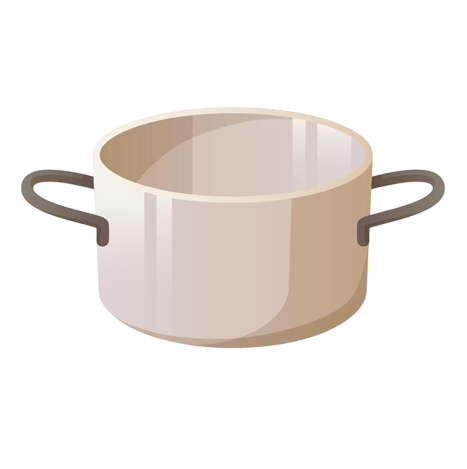
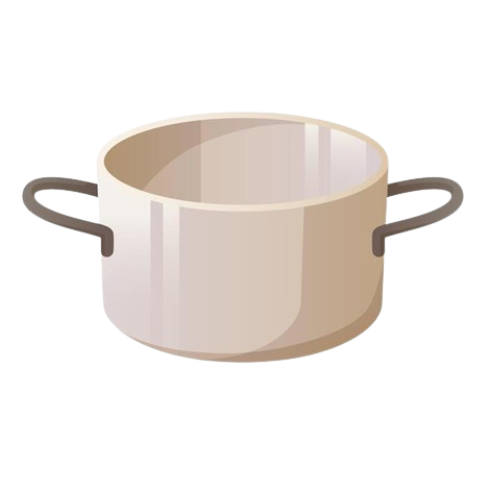
screen

diff --git a/Screen1.py b/Screen1.py
@@ -1,6 +1,5 @@
 import pygame
 import consts
-from consts import PAN_IMG
 
 screen=pygame.display.set_mode((consts.WINDOW_WIDTH,consts.WINDOW_HEIGHT))
 screen.fill(consts.BACKGROUND_COLOR)
@@ -33,3 +32,26 @@ def draw_stove():
     STOVE_IMG = pygame.transform.scale(consts.STOVE_IMG, consts.STOVE_SIZE1)
     screen.blit(STOVE_IMG, (consts.STOVE_START_LOCATION1))
 
+def draw_frame():
+    pygame.init()
+    FRAME_IMG=pygame.transform.scale(consts.FRAME_IMG, consts.FRAME_SIZE)
+    screen.blit(FRAME_IMG)
+
+
+def draw_message_a():
+    #screen.fill(consts.BACKGROUND_COLOR)
+    font = pygame.font.SysFont(consts.FONT_NAME, consts.FONT_SIZE)
+    a_img = font.render(consts.MESSAGE_A, True, consts.COLOR)
+    screen.blit(a_img, consts.FONT_LOCATION)
+
+def draw_message_b():
+    screen.fill(consts.BACKGROUND_COLOR)
+    font = pygame.font.SysFont(consts.FONT_NAME, consts.FONT_SIZE)
+    b_img = font.render(consts.MESSAGE_B, True, consts.COLOR)
+    screen.blit(b_img, consts.FONT_LOCATION)
+
+def draw_message_c():
+    screen.fill(consts.BACKGROUND_COLOR)
+    font = pygame.font.SysFont(consts.FONT_NAME, consts.FONT_SIZE)
+    c_img = font.render(consts.MESSAGE_C, True, consts.COLOR)
+    screen.blit(c_img, consts.FONT_LOCATION)

diff --git a/consts.py b/consts.py
@@ -1,14 +1,43 @@
-BACKGROUND_COLOR=(255,230,247)
+BACKGROUND_COLOR=(150,210,230)
 WINDOW_WIDTH=1000
 WINDOW_HEIGHT=500
 import pygame
 
-PASTA_IMG=pygame.image.load("pasta.jpg")
-POT=pygame.image.load('pot.png')
-LID=pygame.image.load('lid.png')
+'''KITCHEN_IMG=pygame.image.load('kitchen.png')
+KITCHEN_SIZE=(WINDOW_WIDTH,WINDOW_HEIGHT)'''
+
+FRAME_IMG=pygame.image.load('frame.png')
+FRAME_SIZE=(1000,500)
+
+PASTA_IMG=pygame.image.load("pasta.png")
+PASTA_RECT=PASTA_IMG.get_rect()
+PASTA_SIZE=(150,60)
+PASTA_START_LOCATION=850, 100
+
+POT_IMG=pygame.image.load('pot1.png')
+POT_RECT=POT_IMG.get_rect()
+POT_SIZE=300,250
+POT_START_LOCATION=500, 180
+
+LID_IMG=pygame.image.load('lid.png')
+LID_RECT=LID_IMG.get_rect()
+#LID_SIZE=
+#LID_LOCATION=
+
+PAN_IMG=pygame.image.load('pan.png')
+PAN_RECT=PAN_IMG.get_rect()
+PAN_SIZE=300,250
+PAN_START_LOCATION=120, 162
+
+STOVE_IMG=pygame.image.load('stove.png')
+STOVE_RECT=STOVE_IMG.get_rect()
+STOVE_SIZE=250,100
+STOVE_START_LOCATION=150, 350
+STOVE_SIZE1=250,100
+STOVE_START_LOCATION1=550, 350
 
 
-FONT_NAME = "Handjet"
+FONT_NAME = "david"
 MESSAGE_A = "a"
 MESSAGE_B = "b"
 MESSAGE_C = "c"

diff --git a/main.py b/main.py
@@ -1,14 +1,22 @@
 import pygame,sys
-import screen
+import Screen1
 
 pygame.init()
 clock = pygame.time.Clock()
-
 while True:
+    pygame.display.flip()
     for event in pygame.event.get():
         if event.type == pygame.QUIT:
             pygame.quit()
             sys.exit()
 
-    screen.display()
+    pygame.display.update()
+    #screen.draw_pasta()
+    Screen1.draw_pot()
+    Screen1.draw_pan()
+    Screen1.draw_stove()
+    #Screen1.draw_frame()
+    '''Screen1.draw_message_a()
+    Screen1.draw_message_b()
+    Screen1.draw_message_c()'''
     clock.tick(60)
